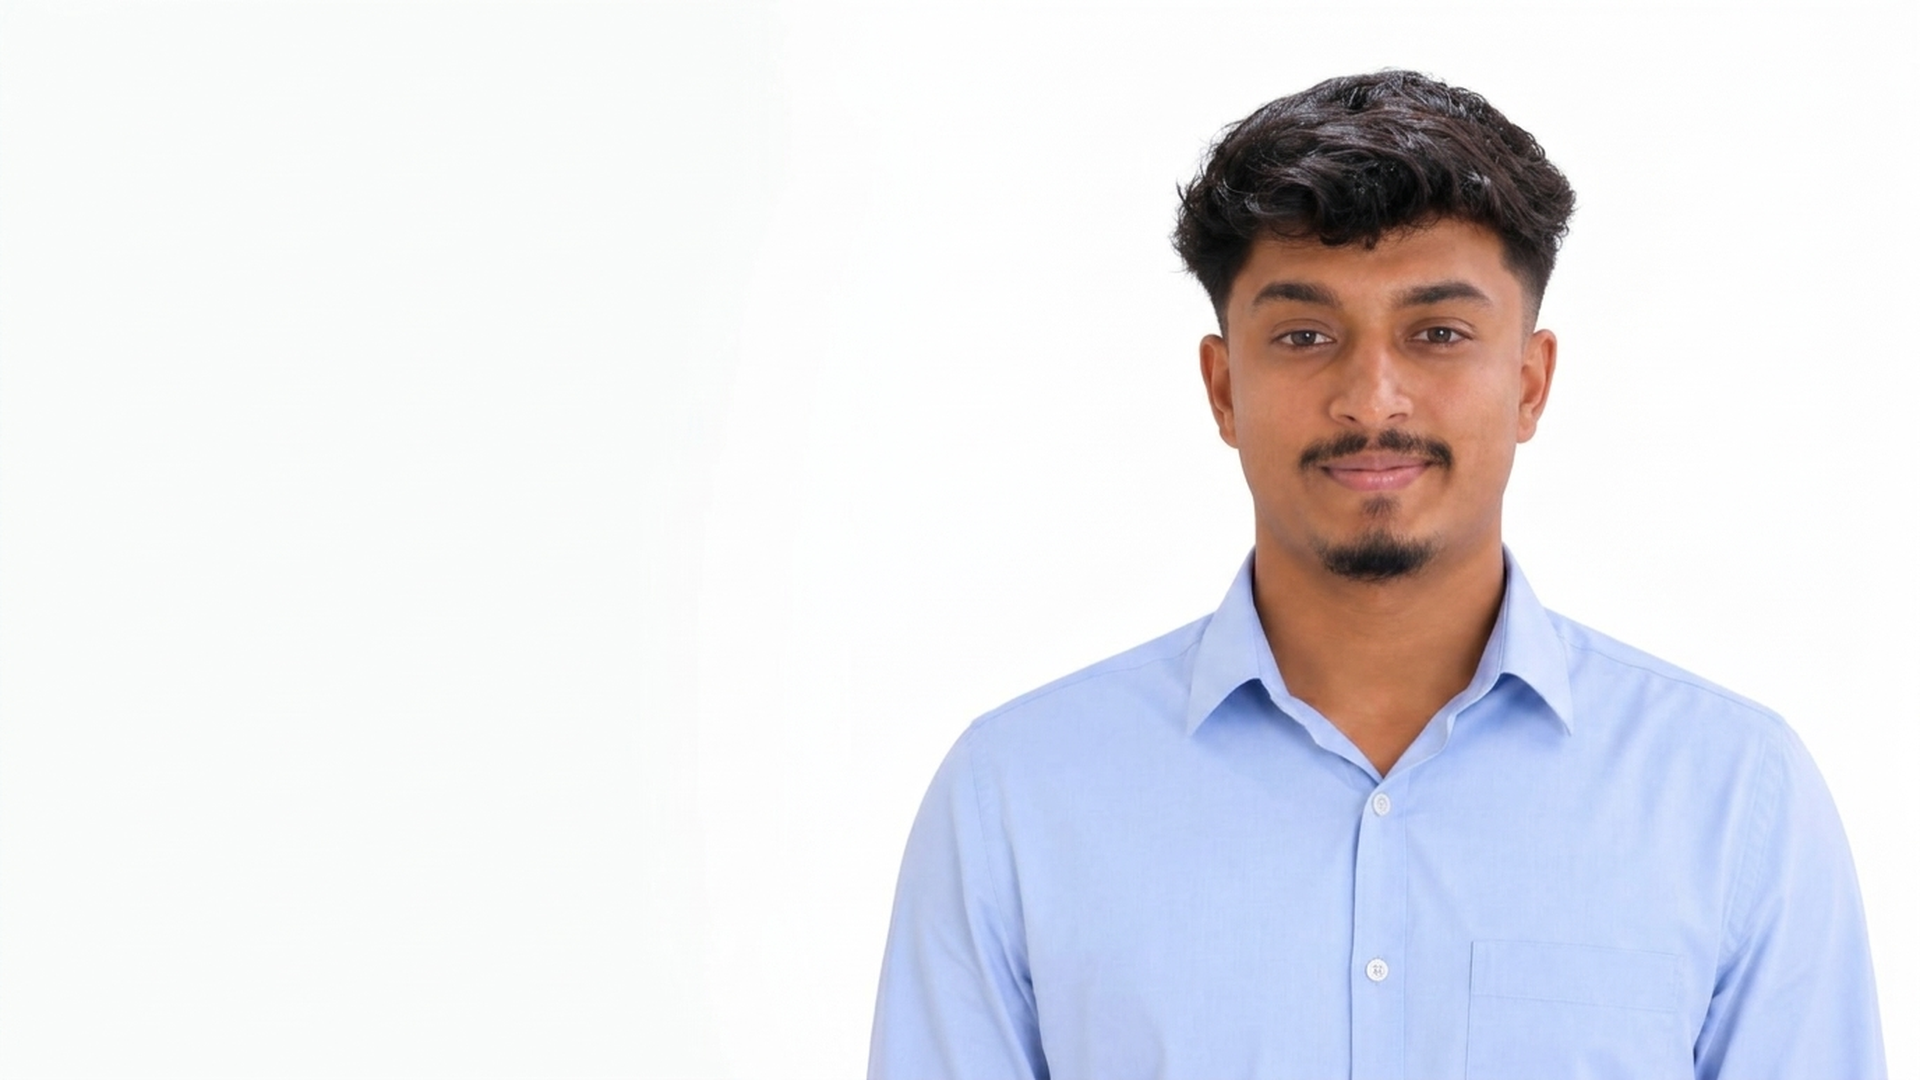
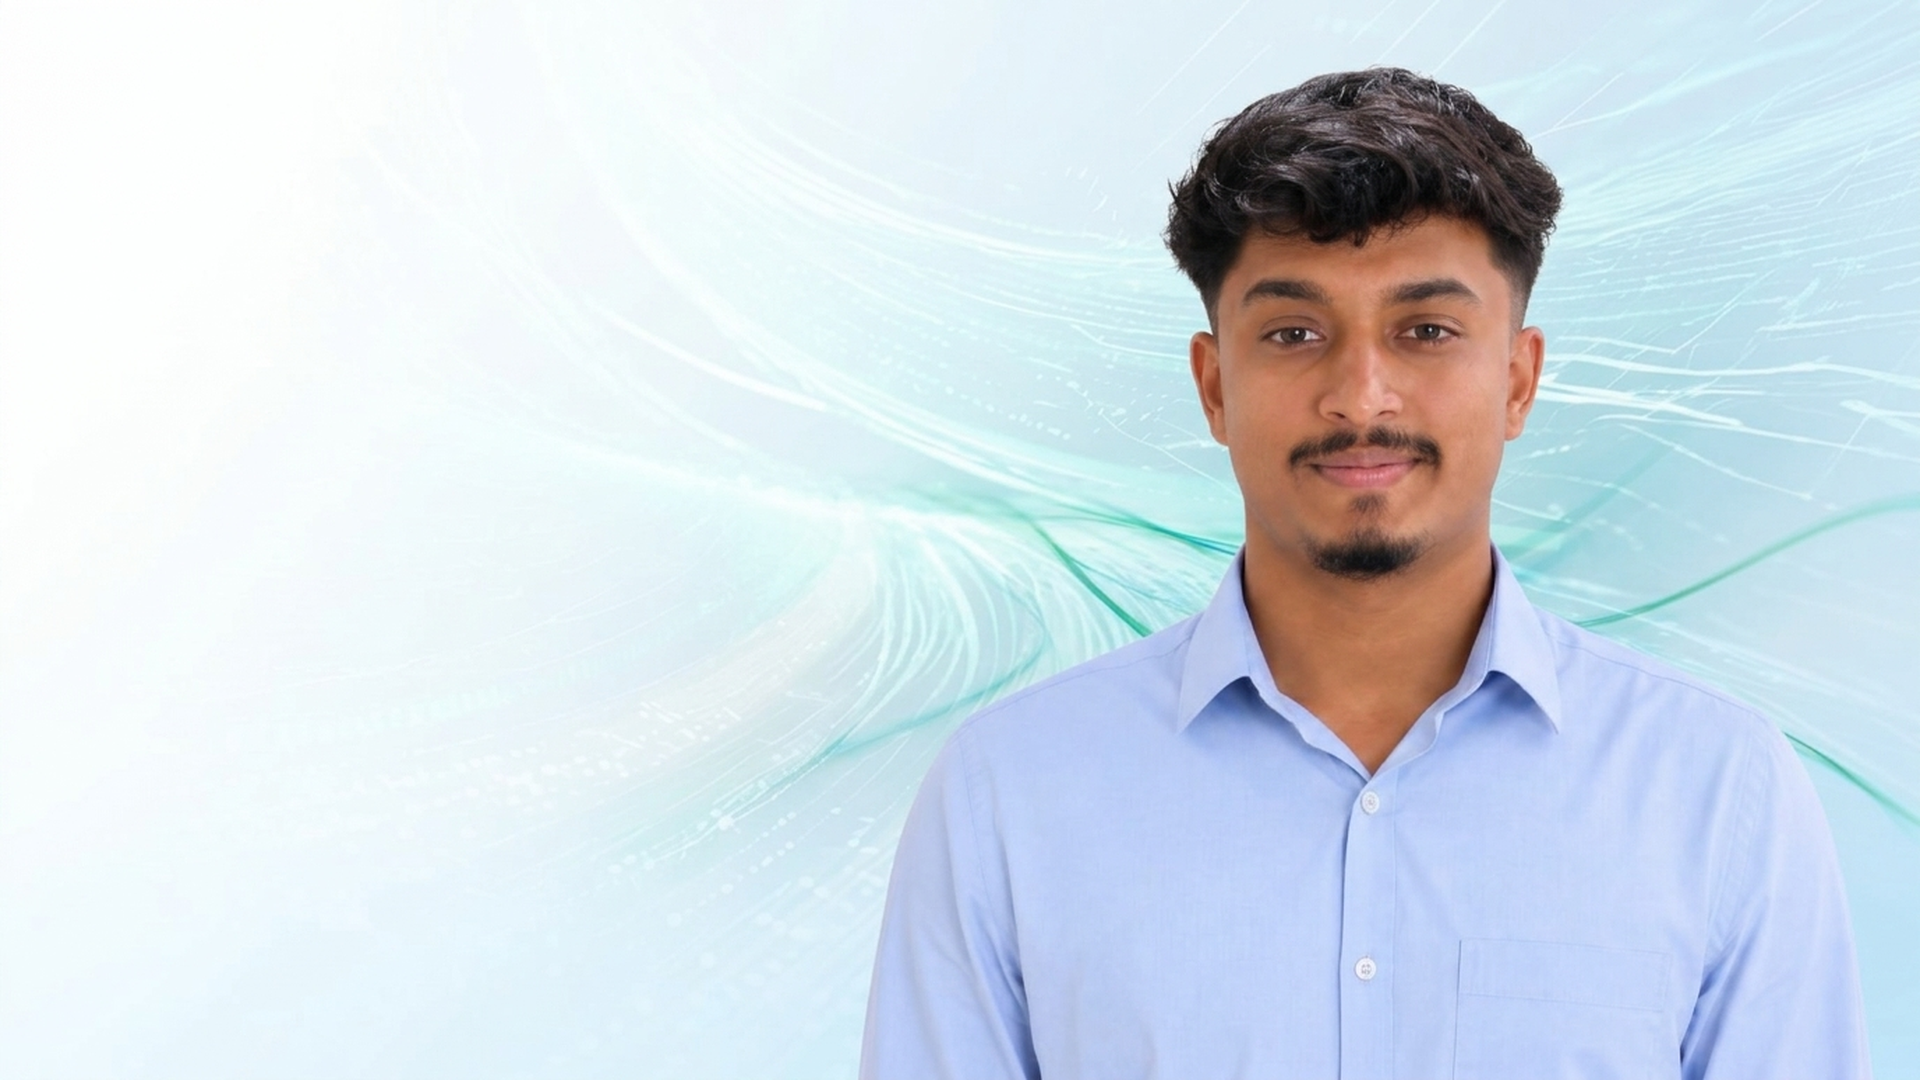
feat: add interactive AI data stream background highway with scroll connected flow

diff --git a/components/data-stream-bg.tsx b/components/data-stream-bg.tsx
@@ -1,0 +1,119 @@
+'use client';
+
+import React, { useEffect, useRef } from 'react';
+
+export function DataStreamBg() {
+  const canvasRef = useRef<HTMLCanvasElement>(null);
+
+  useEffect(() => {
+    const canvas = canvasRef.current;
+    if (!canvas) return;
+
+    const ctx = canvas.getContext('2d');
+    if (!ctx) return;
+
+    let animFrameId: number;
+    let width = (canvas.width = window.innerWidth);
+    let height = (canvas.height = window.innerHeight);
+
+    const handleResize = () => {
+      if (!canvas) return;
+      width = canvas.width = window.innerWidth;
+      height = canvas.height = window.innerHeight;
+    };
+    window.addEventListener('resize', handleResize);
+
+    // Stream lines data
+    const linesCount = 14;
+    const particlesCount = 40;
+
+    interface Particle {
+      pathIndex: number;
+      progress: number;
+      speed: number;
+      size: number;
+      alpha: number;
+    }
+
+    const particles: Particle[] = [];
+    for (let i = 0; i < particlesCount; i++) {
+      particles.push({
+        pathIndex: Math.floor(Math.random() * linesCount),
+        progress: Math.random(),
+        speed: 0.0008 + Math.random() * 0.0012,
+        size: 1.5 + Math.random() * 2,
+        alpha: 0.3 + Math.random() * 0.6,
+      });
+    }
+
+    let scrollOffset = 0;
+    const handleScroll = () => {
+      scrollOffset = window.scrollY * 0.15;
+    };
+    window.addEventListener('scroll', handleScroll, { passive: true });
+
+    let t = 0;
+    const render = () => {
+      t += 0.005;
+      ctx.clearRect(0, 0, width, height);
+
+      // Draw flowing cyan/emerald data stream bezier lines
+      for (let i = 0; i < linesCount; i++) {
+        ctx.beginPath();
+        const yBase = (height / linesCount) * i + (scrollOffset % (height / linesCount));
+        
+        const cp1x = width * 0.25 + Math.sin(t + i) * 60;
+        const cp1y = yBase - 80 + Math.cos(t * 0.8 + i) * 40;
+        const cp2x = width * 0.75 + Math.cos(t + i * 0.5) * 60;
+        const cp2y = yBase + 80 + Math.sin(t * 0.6 + i) * 40;
+
+        ctx.moveTo(-50, yBase);
+        ctx.bezierCurveTo(cp1x, cp1y, cp2x, cp2y, width + 50, yBase + 30);
+
+        // Subtle gradient stroke for stream lines
+        const grad = ctx.createLinearGradient(0, yBase, width, yBase);
+        grad.addColorStop(0, 'rgba(6, 182, 212, 0.03)');
+        grad.addColorStop(0.5, i % 2 === 0 ? 'rgba(6, 182, 212, 0.12)' : 'rgba(16, 185, 129, 0.10)');
+        grad.addColorStop(1, 'rgba(6, 182, 212, 0.03)');
+
+        ctx.strokeStyle = grad;
+        ctx.lineWidth = i % 3 === 0 ? 1.8 : 0.9;
+        ctx.stroke();
+      }
+
+      // Draw glowing data particles moving along the stream
+      particles.forEach((p) => {
+        p.progress += p.speed;
+        if (p.progress > 1) p.progress = 0;
+
+        const pY = (height / linesCount) * p.pathIndex + (scrollOffset % (height / linesCount));
+        const pX = p.progress * width;
+        const waveY = Math.sin(p.progress * Math.PI * 2 + t) * 35;
+
+        ctx.beginPath();
+        ctx.arc(pX, pY + waveY, p.size, 0, Math.PI * 2);
+        ctx.fillStyle = p.pathIndex % 2 === 0
+          ? `rgba(6, 182, 212, ${p.alpha * 0.6})`
+          : `rgba(16, 185, 129, ${p.alpha * 0.5})`;
+        ctx.fill();
+      });
+
+      animFrameId = requestAnimationFrame(render);
+    };
+
+    animFrameId = requestAnimationFrame(render);
+
+    return () => {
+      window.removeEventListener('resize', handleResize);
+      window.removeEventListener('scroll', handleScroll);
+      cancelAnimationFrame(animFrameId);
+    };
+  }, []);
+
+  return (
+    <canvas
+      ref={canvasRef}
+      className="fixed inset-0 w-full h-full pointer-events-none z-0 opacity-80"
+    />
+  );
+}

diff --git a/app/page.tsx b/app/page.tsx
@@ -10,10 +10,12 @@ import { ExperimentsSection } from '@/components/experiments-section';
 import { ContactSection } from '@/components/contact-section';
 import { Footer } from '@/components/footer';
 import { SocialDock } from '@/components/social-dock';
+import { DataStreamBg } from '@/components/data-stream-bg';
 
 export default function Home() {
   return (
     <main className="relative min-h-screen bg-slate-50">
+      <DataStreamBg />
       <Navbar />
       <GlassHero />
       <AboutSection />
